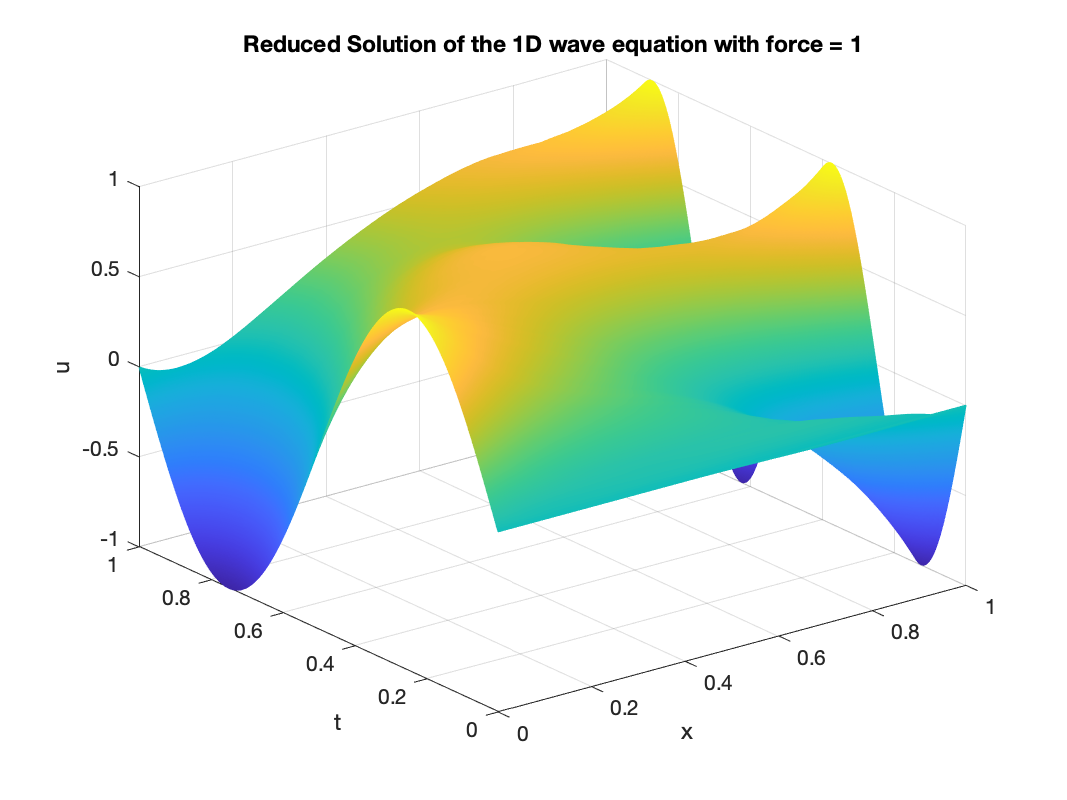
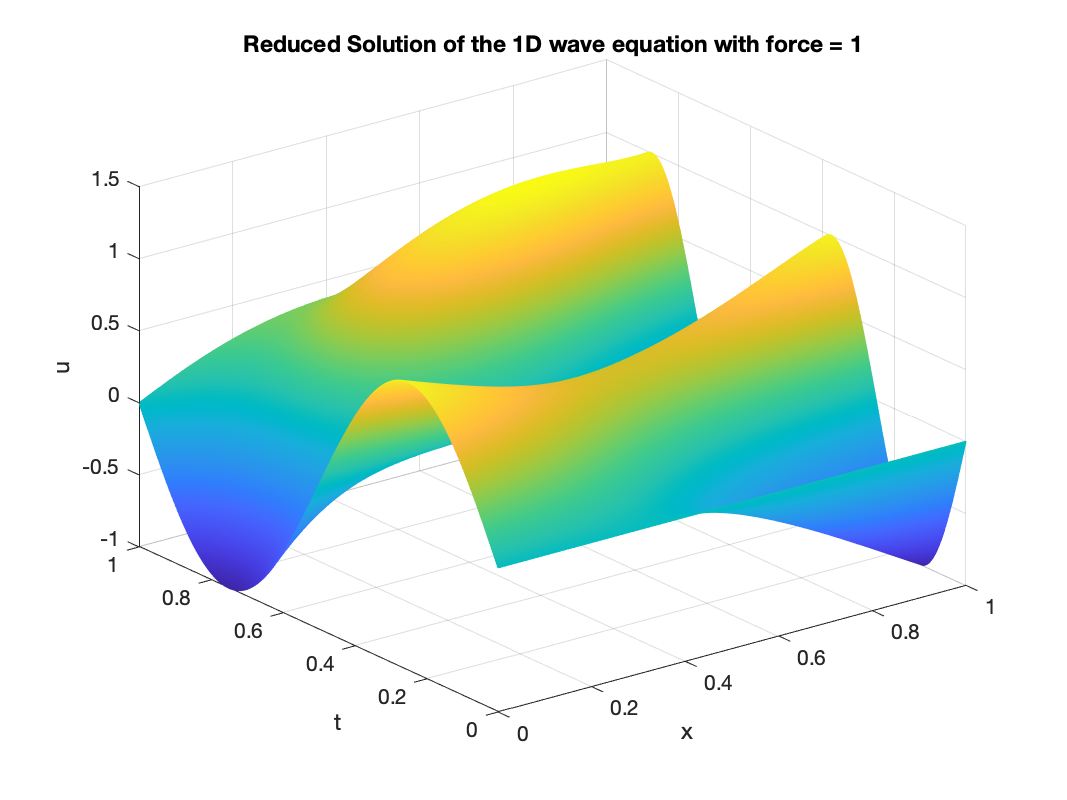
[TP2] test: add grahm schmidt update (tag:nw)

diff --git a/TP2_eleve/TP2_moeeze.m b/TP2_eleve/TP2_moeeze.m
@@ -25,7 +25,7 @@ dt = T/(nt-1); % time step
 
 Ix = sparse(nx, nx);
 It = sparse(nt, nt);
-
+update_g = 0;
 %%%%%%%%%%%%%%%%%%%%%%%%%%%%%%%%%%%%%%%%%%%%%%%%%%%%%%%%%%%%%%
 %% Time steps
 lx = lx0:dx:L; % grid points
@@ -101,8 +101,8 @@ xlabel('x')
 ylabel('t')
 zlabel('u')
 title(['Solution of the 1D Diff wave equation with force = ', num2str(if_force)]);
-saveas(gcf, strcat('../Final Report/assets/TP2_ref_Dif_solution_', num2str(if_force), '.png'));
-saveas(gcf, strcat('assets/TP2_ref_Dif_solution_', num2str(if_force), '.png'));
+%saveas(gcf, strcat('../Final Report/assets/TP2_ref_Dif_solution_', num2str(if_force), '.png'));
+%saveas(gcf, strcat('assets/TP2_ref_Dif_solution_', num2str(if_force), '.png'));
 
 %%%%%%%%%%%%%%%%%%%%%%%%%%%%%%%%%%%%%%%%%%%%%%%%%%%%%%%%%%%%%%
 % Plot collectively
@@ -121,6 +121,7 @@ figure(3)
 [ucldot, D] = derivative(nt, u, It);
 ucl = (1-lx/L)'*ud0d + (lx/L)'*udLd;
 G = F - K*ucl - M*ucldot;
+G_fix = G;
 
 % Do SVD
 [X,S,V] = svd(full(u));
@@ -130,10 +131,11 @@ U_SVD = zeros(nt,nx);
 lambda = lt;
 iter = 0;
 W = zeros(nx, nt) + ucl;
-nb_modes = 13;
+nb_modes = 5;
 error = zeros(1, nb_modes);
 error_svd = zeros(1, nb_modes);
-Lambda_con = zeros(nx, nb_modes);
+Lambda_con = [];
+G_var = [];
 for i = 1:nb_modes
     er = 1;
     while er > 1e-3
@@ -152,11 +154,25 @@ for i = 1:nb_modes
         lambda(2:end) = (m*D(2:end, 2:end) + eye(size(D(2:end, 2:end))))\h(2:end);
         er = ((lambda - old_lambda)*It*(lambda - old_lambda)')/ intlambda;
     end
-    G = G - K*Lambda*lambda;
-    W = W + Lambda * lambda;
-    Lambda_con(:, i) = Lambda;
-    Q = grahm_shmidt(Lambda_con, K);
-    
+
+    if update_g==1
+        Lambda_con = grahm_shmidt([Lambda_con Lambda], K);
+        m_update = Lambda_con'*Ix*Lambda_con;
+        k_update = Lambda_con'*K*Lambda_con;
+        F_update = Lambda_con'*G_fix;
+        [~, lambda_upt] = ode45(@(t, y) deriv(t, y, m_update, k_update, F_update,dt), lt, zeros(i,1));
+        size(lambda_upt)
+        size(Lambda_con)
+        size(Lambda)
+        G = G_fix - K*Lambda_con*lambda_upt';
+        W = ucl + Lambda_con * lambda_upt';
+
+    else
+        G = G - K*Lambda*lambda - M*Lambda*lambda*It*lambda';
+        W = W + Lambda * lambda;
+    end
+
+
     % Do SVD
     U_SVD = X(:,1:i)*S(1:i,1:i)*V(:,1:i)';
     num_svd = zeros(nx, 1);
@@ -206,14 +222,14 @@ u_red = W;
 figure(2)
 fprintf('\nNumber of iterations: %d', iter);
 fprintf('\n\nFinal error: %d', er);
-saveas(gcf, strcat('../Final Report/assets/TP2_red_anim_solution_', num2str(if_force), '.png'));
-saveas(gcf, strcat('assets/TP2_red_anim_solution_', num2str(if_force), '.png'));
+%saveas(gcf, strcat('../Final Report/assets/TP2_red_anim_solution_', num2str(if_force), '.png'));
+%saveas(gcf, strcat('assets/TP2_red_anim_solution_', num2str(if_force), '.png'));
 
 % Plot the reduced modes
 figure(3)
 sgtitle('Modes of the reduced model')
-saveas(gcf, strcat('assets/TP2_red_modes_', num2str(if_force), '.png'));
-saveas(gcf, strcat('../Final Report/assets/TP2_red_modes_', num2str(if_force), '.png'));
+%saveas(gcf, strcat('assets/TP2_red_modes_', num2str(if_force), '.png'));
+%saveas(gcf, strcat('../Final Report/assets/TP2_red_modes_', num2str(if_force), '.png'));
 
 
 %% Cost = no.modes * n_iter * cost
@@ -224,6 +240,11 @@ xlabel('x')
 ylabel('t')
 zlabel('u')
 title(['Reduced Solution of the 1D wave equation with force = ', num2str(if_force)]);
-saveas(gcf, strcat('../Final Report/assets/TP2_red_solution_', num2str(if_force), '.png'));
-saveas(gcf, strcat('assets/TP2_red_solution_', num2str(if_force), '.png'));
+%saveas(gcf, strcat('../Final Report/assets/TP2_red_solution_', num2str(if_force), '.png'));
+%saveas(gcf, strcat('assets/TP2_red_solution_', num2str(if_force), '.png'));
+
+function deriv = deriv(t, lam, m, k, ht, dt)
+    h = ht(:, round(t/dt + 1));
+    deriv = (m^(-1))*(h - k*lam);
+end
 
